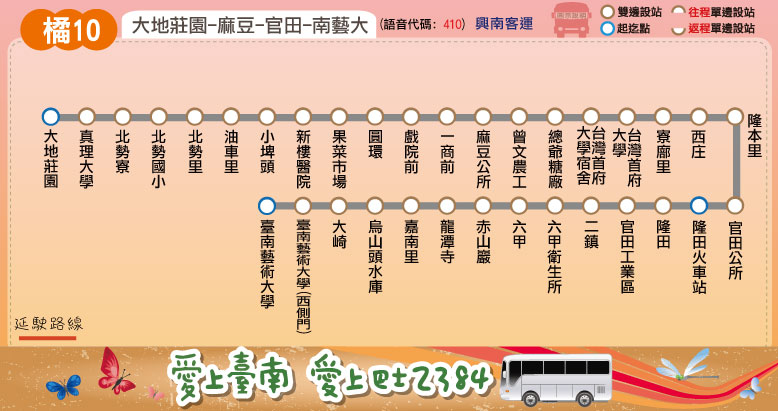
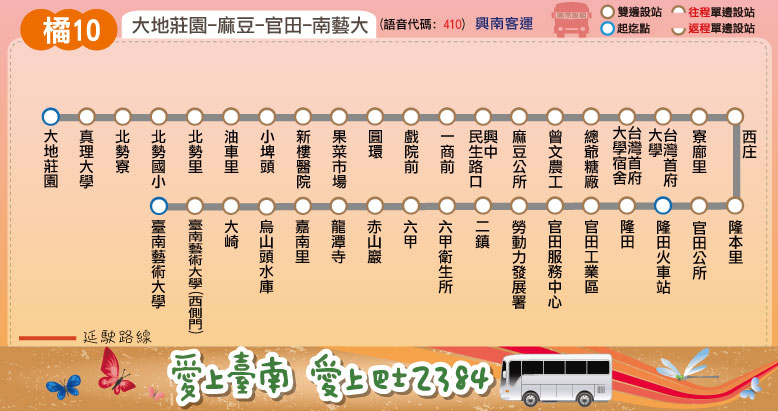
6/6 綠15,綠16,橘11,藍20,紅14改點

diff --git a/orange/orange_10.html b/orange/orange_10.html
@@ -2,7 +2,7 @@
 <html xmlns="http://www.w3.org/1999/xhtml">
 <head>
 <meta http-equiv="Content-Type" content="text/html; charset=utf-8" />
-<title>大台南公車 ─ 橘4 路線資訊</title>
+<title>大台南公車 ─ 橘10 路線資訊</title>
 <meta name="keywords" content="" />
 <meta name="description" content="" />
 <style type="text/css">
@@ -23,7 +23,7 @@ select.get_fare option.option6
 {background-color: #FFBB73;}
 </style>
 <script language="javascript" src="../route/msg.js"></script>
-<script language="javascript" src="../route/fare_and_time/orange_4.js"></script>
+<script language="javascript" src="../route/fare_and_time/orange_10.js"></script>
 <script language="javascript" src="../route/fare_and_time/show_fare_tool.js"></script>
 </head>
 <body>
@@ -51,10 +51,10 @@ select.get_fare option.option6
 	<div id="banner">&nbsp;</div>
 	<div id="route">
 		<div class="title">
-			<h2>大台南公車 ─ 橘4 路線圖</h2>
-			<span class="byline">Tainan Bus Orange 4, Route Map</span>
+			<h2>大台南公車 ─ 橘10 路線圖</h2>
+			<span class="byline">Tainan Bus Orange 10, Route Map</span>
 		</div>
-		<img src="../route/orange/o4.jpg">
+		<img src="../route/orange/o10.jpg">
 		<p></p>
 		<!--<iframe src="https://mapsengine.google.com/map/embed?mid=zT0XIOZRtlhg.kR8K7xUyvQtw" width="800" height="500"></iframe>-->
 	</div>
@@ -63,13 +63,13 @@ select.get_fare option.option6
 	<a name="info"></a>
 	<div id="routeinfo" class="container">
 		<div class="title">
-			<h2>大台南公車 ─ 橘4　路線資訊</h2>
-			<span class="byline">Tainan Bus Orange 4, Route Information</span> </div>
+			<h2>大台南公車 ─ 橘10　路線資訊</h2>
+			<span class="byline">Tainan Bus Orange 10, Route Information</span> </div>
 		<div class="content">
 			<table border="0">
 				<tr>
 					<td>起訖點</td>
-					<td>善化火車站 － 南藝大 － 烏山頭水庫</td>
+					<td>大地莊園 － 六甲 － 臺南藝術大學</td>
 				</tr>
 				<tr>
 					<td>營運公司</td>
@@ -77,7 +77,7 @@ select.get_fare option.option6
 				</tr>
 				<tr>
 					<td>首／末班車發車時刻</td>
-					<td>往 烏山頭水庫：07:50／19:30<br />往 善化火車站：08:20／20:00</td>
+					<td>往 臺南藝術大學：07:05／17:20<br />往 善化　火車站：07:50／19:00</td>
 				</tr>
 				<tr>
 					<td>班距</td>
@@ -89,7 +89,7 @@ select.get_fare option.option6
 				</tr>
 			</table>
 			<p>　</p>
-			<a href="http://2384.tainan.gov.tw:8080/AGPSRemoteQuery3/ajaxBus.jsp?pathId=1404&locale=zh_TW" class="button">公車動態資訊</a> </div>
+			<a href="http://2384.tainan.gov.tw:8080/AGPSRemoteQuery3/ajaxBus.jsp?pathId=1410&locale=zh_TW" class="button">公車動態資訊</a> </div>
 	</div>
 </div>
 <div id="wrapper3">
@@ -100,7 +100,7 @@ select.get_fare option.option6
 			<span class="byline">Ticket Fare</span> </div>
 		<div class="content">
 			<script language="javascript">
-				create_select_menu(orange_4_interval_stop, 6, 'orange_4');
+				create_select_menu(orange_10_interval_stop, 6, 'orange_10');
 			</script>
 			<br/>
 			<table>
@@ -120,7 +120,7 @@ select.get_fare option.option6
 			</table>
 			<p>　</p>
 			<script language="javascript">
-				print_fare_table(orange_4_interval_name, orange_4_fare, '#FFC991');
+				print_fare_table(orange_10_interval_name, orange_10_fare, '#FFC991');
 				document.write('<p>　</p>');
 				document.write(MeteredMSG + PromotionMSG);
 			</script>
@@ -135,11 +135,11 @@ select.get_fare option.option6
 		<span class="byline">Bus schedule</span> </div>
 	<div class="content">
 		<script language="javascript">
-			document.write('<h2><font color="orange">善化火車站-&gt;烏山頭水庫</font></h2>');
-			create_time_schedule(orange_4_main_stop_name, orange_4_main_stop_time_consume, orange_4_important_stop, orange_4_time_go, false);
+			document.write('<h2><font color="orange">大地莊園-&gt;臺南藝術大學</font></h2>');
+			create_time_schedule(orange_10_main_stop_name, orange_10_main_stop_time_consume, orange_10_important_stop, orange_10_time_go, false);
 			document.write('<p>　</p>');
-			document.write('<h2><font color="orange">烏山頭水庫-&gt;善化火車站</font></h2>');
-			create_time_schedule(orange_4_main_stop_name, orange_4_main_stop_time_consume, orange_4_important_stop, orange_4_time_return, true);
+			document.write('<h2><font color="orange">臺南藝術大學-&gt;大地莊園</font></h2>');
+			create_time_schedule(orange_10_main_stop_name, orange_10_main_stop_time_consume, orange_10_important_stop, orange_10_time_return, true);
 			document.write(TimeScheduleMSG);
 		</script>
 	</div>
@@ -148,36 +148,45 @@ select.get_fare option.option6
 	<a name="transfer"></a>
 	<div id="transfer" class="container">
 		<div class="title">
-			<h2>大台南公車－橘4 主要轉乘點資訊</h2>
-			<span class="byline">Tainan bus Orange 4, Transfer information</span>
+			<h2>大台南公車－橘10 主要轉乘點資訊</h2>
+			<span class="byline">Tainan bus Orange 10, Transfer information</span>
 		</div>
 		<div class="content">
 			<table>
 				<tr>
-					<th rowspan="3">善化火車站</th>
+					<th rowspan="2">果菜市場</th>
+					<td style="text-align: center"><img src="../route/transfer/orange_transfer_logo.png"></td>
+					<td id="orange"><a href="orange.html" target="_blank">橘幹線</a>、<a href="orange_10.html" target="_blank">橘10</a>、<a href="orange_11.html" target="_blank">橘11</a>、<a href="orange_12.html" target="_blank">橘12</a></td>
+				</tr>
+				<tr>
+					<td style="text-align: center"><img src="../route/transfer/yellow_transfer_logo.png"></td>
+					<td id="yellow"><a href="../yellow/yellow.html" target="_blank">黃幹線</a>、<a href="../yellow/yellow_20.html" target="_blank">黃20</a></td>
+				</tr>
+				<tr>
+					<th rowspan="2">隆田火車站</th>
 					<td style="text-align: center"><img src="../route/transfer/railway.png"></td>
-					<td>台鐵善化站</td>
+					<td>台鐵隆田站</td>
 				</tr>
 				<tr>
 					<td style="text-align: center"><img src="../route/transfer/orange_transfer_logo.png"></td>
-					<td id="orange">
-					<p>
-						<a href="orange.html" target="_blank">橘幹線</a>、<a href="orange_1.html" target="_blank">橘1</a>、<a href="orange_2.html" target="_blank">橘2</a>、<a href="orange_3.html" target="_blank">橘3</a>、<a href="orange_4.html" target="_blank">橘4</a>、
-					</p>
-					<a href="orange_5.html" target="_blank">橘5</a>、<a href="orange_12.html" target="_blank">橘12</a>
-					</td>
+					<td id="orange"><a href="orange_10.html" target="_blank">橘10</a></td>
 				</tr>
 				<tr>
-					<td style="text-align: center"><img src="../route/transfer/green_transfer_logo.png"></td>
-					<td id="green"><a href="../green/green_1.html" target="_blank">綠1</a>、<a href="../green/green_2.html" target="_blank">綠2</a>、<a href="../green/green_3.html" target="_blank">綠3</a>、<a href="../green/green_4.html" target="_blank">綠4</a>、<a href="../green/green_11.html" target="_blank">綠11</a></td>
+					<th rowspan="2">六甲</th>
+					<td style="text-align: center"><img src="../route/transfer/orange_transfer_logo.png"></td>
+					<td id="orange"><a href="orange_5.html" target="_blank">橘5</a>、<a href="orange_10.html" target="_blank">橘10</a></td>
 				</tr>
 				<tr>
-					<th>臺南藝術大學</th>
+					<td style="text-align: center"><img src="../route/transfer/yellow_transfer_logo.png"></td>
+					<td id="yellow"><a href="../yellow/yellow_1.html" target="_blank">黃1</a></td>
+				</tr>
+				<tr>
+					<th>烏山頭水庫</th>
 					<td style="text-align: center"><img src="../route/transfer/orange_transfer_logo.png"></td>
 					<td id="orange"><a href="orange_4.html" target="_blank">橘4</a>、<a href="orange_10.html" target="_blank">橘10</a></td>
 				</tr>
 				<tr>
-					<th>烏山頭水庫</th>
+					<th>臺南藝術大學</th>
 					<td style="text-align: center"><img src="../route/transfer/orange_transfer_logo.png"></td>
 					<td id="orange"><a href="orange_4.html" target="_blank">橘4</a>、<a href="orange_10.html" target="_blank">橘10</a></td>
 				</tr>

diff --git a/route/fare_and_time/orange_10.js b/route/fare_and_time/orange_10.js
@@ -1,0 +1,36 @@
+orange_10_interval_name = ["真理<br />大學","北勢寮","麻豆","寮廍里","西庄","隆田","二鎮","六甲","嘉南里","烏山頭<br />水庫","臺南藝<br />術大學"];
+orange_10_interval_stop = [
+["大地莊園","真理大學"], // 真理大學
+["北勢寮","北勢國小","北勢里"], // 北勢寮
+["油車里","小埤頭","新樓醫院","果菜市場","圓環","戲院前","一商前","興中民生路口","麻豆公所","曾文農工","總爺糖廠","臺灣首府大學宿舍","臺灣首府大學"], // 麻豆
+["寮廍里"], // 寮廍里
+["西庄"], // 西庄
+["隆本里","官田公所","隆田火車站","隆田"], // 隆田
+["官田工業區","官田服務中心","勞動力發展署","二鎮"], // 二鎮
+["六甲衛生所","六甲"], // 六甲
+["赤山巖","龍潭寺","嘉南里"], // 嘉南里
+["烏山頭水庫"], // 烏山頭水庫
+["大崎","臺南藝術大學(西側門)","臺南藝術大學"] // 臺南藝術大學
+];
+orange_10_stop_time_consume = [0,5,9,10,11,12,15,18,20,21,22,24,25,27,28,30,32,33,35,38,40,43,45,50,52,53,54,55,58,60,62,64,65,67,71,73,75];
+orange_10_fare = [
+[26],
+[26,26],
+[28,26,26],
+[47,42,26,26],
+[52,46,26,26,26],
+[61,56,33,26,26,26],
+[75,70,48,29,26,26,26],
+[83,78,55,36,32,26,26,26],
+[91,85,63,44,39,30,26,26,26],
+[93,88,65,46,41,32,26,26,26,26],
+[106,101,79,60,55,45,31,26,26,26,26]
+];
+// format = [time at the start stop] or
+// [time, other] or
+// [time, start_stop, end_stop, other]
+orange_10_main_stop_name = ["大地<br />莊園","真理<br />大學","果菜<br />市場","總爺<br />糖廠","臺灣<br />首府大學","隆田<br />火車站","官田<br />工業區","六甲","烏山頭<br />水庫","臺南<br />藝術大學"];
+orange_10_main_stop_time_consume = [0, 5, 20, 30, 33, 45, 52, 60, 67, 75];
+orange_10_important_stop = [0, 2, 5, 7, 9]; // 大地莊園, 果菜市場, 隆田火車站, 六甲, 臺南藝術大學
+orange_10_time_go = [["7:05",0,5],["8:00"],["9:20"],["12:50"],["16:45",0,5],["17:20"]];
+orange_10_time_return = [["7:50",5,0],["9:25"],["10:35"],["14:25"],["17:30",5,0],["19:00"]];

diff --git a/route/fare_and_time/green_16.js b/route/fare_and_time/green_16.js
@@ -17,12 +17,12 @@ green_16_fare = [
 // format = [time at the start stop] or
 // [time, other] or
 // [time, start_stop, end_stop, other]
-green_16_main_stop_name = ["新化","統一花園","加州新城","山西宮","關廟","歸仁公所"];
-green_16_main_stop_time_consume = [0, 5, 4, 19, 20, 25];
-green_16_important_stop = [0, 4, 5]; // 新化, 關廟, 歸仁公所
-green_16_time_go = [["5:50",[1]],["7:00",0,4,[[2,5]]],["8:20",0,4,[1]],["10:00",0,4,[1]],["11:00",0,4,[1]],["12:00",0,4,[[2,5]]],
-["13:00",0,4,[1]],["13:50",0,4,[1]],["14:00",0,4,[1]],["15:00",0,4,[1]],["16:00",0,4,[1]],["17:10",0,4,[[2,5]]],["18:40",0,4,[1]],
+green_16_main_stop_name = ["新化","統一花園","加州新城","山西宮","關廟","歸仁公所","高鐵<br />臺南站"];
+green_16_main_stop_time_consume = [0, 5, 4, 19, 20, 25, 45];
+green_16_important_stop = [0, 4, 6]; // 新化, 關廟, 高鐵臺南站
+green_16_time_go = [["5:50",0,5,[1]],["7:00",0,4,[[2,5]]],["8:20",[1]],["10:00",0,4,[1]],["11:00",[1]],["12:00",0,4,[[2,5]]],
+["13:00",0,4,[1]],["13:50",0,4,[1]],["14:00",[1]],["15:00",0,4,[1]],["16:00",0,4,[1]],["17:10",0,4,[[2,5]]],["18:40",[1]],
 ["19:10",0,4,[1]],["20:00",0,4,[1]],["21:00",0,4,[1]]];
-green_16_time_return = [["6:15",[1]],["7:25",4,0,[[1,5]]],["8:40",4,0,[1]],["9:30",4,0,[1]],["10:20",4,0,[1]],["11:20",4,0,[1]],
-["12:25",4,0,[[1,5]]],["13:20",4,0,[1]],["14:20",4,0,[1]],["15:20",4,0,[1]],["16:20",4,0,[1]],["17:35",4,0,[[1,5]]],
-["19:00",4,0,[1]],["19:30",4,0,[1]],["20:20",4,0,[1]],["21:20",4,0,[1]]];
+green_16_time_return = [["6:15",5,0,[1]],["7:25",4,0,[[1,5]]],["9:00",[1]],["9:30",4,0,[1]],["10:20",4,0,[1]],["11:40",[1]],
+["12:25",4,0,[[1,5]]],["13:20",4,0,[1]],["14:40",[1]],["15:20",4,0,[1]],["16:20",4,0,[1]],["17:35",4,0,[[1,5]]],
+["19:20",[1]],["19:30",4,0,[1]],["20:20",4,0,[1]],["21:20",4,0,[1]]];

diff --git a/route/fare_and_time/blue_20.js b/route/fare_and_time/blue_20.js
@@ -28,5 +28,5 @@ blue_20_fare = [
 blue_20_main_stop_name = ["佳里","七股<br />公所","龍山里","中寮子","鹽山","西寮","青鯤鯓","將軍<br />漁港","馬沙溝<br />遊憩區"];
 blue_20_main_stop_time_consume = [0, 9, 15, 17, 20, 26, 29, 45, 50];
 blue_20_important_stop = [0, 1, 4, 6, 8]; // 佳里, 七股公所, 鹽山, 青鯤鯓, 馬沙溝遊憩區
-blue_20_time_go = [["5:25"],["7:10"],["8:40"],["10:15"],["11:00"],["12:30"],["15:40"],["17:20"],["18:00"],["19:20"],["20:10"]];
-blue_20_time_return = [["6:15"],["8:10"],["9:40"],["11:10"],["12:00"],["13:30"],["16:40"],["18:10"],["18:50"],["20:20"],["21:00"]];
+blue_20_time_go = [["5:25"],["7:10"],["8:40"],["09:40",[2,'區']],["10:15"],["11:00"],["12:00",[2,'區']],["12:30"],["14:10",[2,'區']],["15:40"],["16:20",[2,'區']],["17:20"],["18:00"],["18:30",[2,'區']],["19:20"],["20:10"]];
+blue_20_time_return = [["6:15"],["8:10"],["9:40"],["10:35",[2,'區']],["11:10"],["12:00"],["12:55",[2,'區']],["13:30"],["15:05",[2,'區']],["16:40"],["17:15",[2,'區']],["18:10"],["18:50"],["19:25",[2,'區']],["20:20"],["21:00"]];

diff --git a/route/fare_and_time/red_14.js b/route/fare_and_time/red_14.js
@@ -18,7 +18,5 @@ red_14_fare = [
 red_14_main_stop_name = ["關廟","歸仁公所","歸南<br />派出所","高鐵<br />臺南站"];
 red_14_main_stop_time_consume = [0, 5, 10, 20];
 red_14_important_stop = [0, 3]; // 關廟, 高鐵臺南站
-red_14_time_go = [["7:10"],["8:35"],["9:35"],["10:00"],["10:35"],["11:35"],["12:00"],["12:35"],["13:35"],["14:00"],
-["14:35"],["15:35"],["16:00"],["16:35"],["17:35"],["18:35"],["19:35"],["20:35"]];
-red_14_time_return = [["6:50"],["8:15"],["9:15"],["9:40"],["10:15"],["11:15"],["11:40"],["12:15"],["13:15"],["13:40"],
-["14:15"],["15:15"],["15:40"],["16:15"],["17:15"],["18:15"],["19:15"],["20:15"]];
+red_14_time_go = [["6:50"],["9:15"],["9:40"],["10:15"],["11:40"],["12:15"],["13:15"],["13:40"],["15:15"],["15:40"],["16:15"],["17:15"],["18:15"],["20:15"]];
+red_14_time_return = [["7:10"],["9:35"],["10:00"],["10:35"],["12:00"],["12:35"],["13:35"],["14:00"],["15:35"],["16:00"],["16:35"],["17:35"],["18:35"],["20:35"]];

diff --git a/orange/orange_3.html b/orange/orange_3.html
@@ -135,10 +135,10 @@ select.get_fare option.option6
 		<span class="byline">Bus schedule</span> </div>
 	<div class="content">
 		<script language="javascript">
-			document.write('<h2><font color="orange">善化火車站-&gt;臺南公園(公園路)</font></h2>');
+			document.write('<h2><font color="orange">善化火車站-&gt;安南醫院/臺南公園(公園路)</font></h2>');
 			create_time_schedule(orange_3_main_stop_name, orange_3_main_stop_time_consume, orange_3_important_stop, orange_3_time_go, false);
 			document.write('<p>　</p>');
-			document.write('<h2><font color="orange">臺南公園(公園路)-&gt;善化火車站</font></h2>');
+			document.write('<h2><font color="orange">安南醫院/臺南公園(公園路)-&gt;善化火車站</font></h2>');
 			create_time_schedule(orange_3_main_stop_name, orange_3_main_stop_time_consume, orange_3_important_stop, orange_3_time_return, true);
 			document.write(TimeScheduleMSG);
 		</script>

diff --git a/route/fare_and_time/green_15.js b/route/fare_and_time/green_15.js
@@ -14,5 +14,5 @@ green_15_fare = [
 green_15_main_stop_name = ["新化","新化國中","佛顓寺","知義營房","新和教會","五甲勢"];
 green_15_main_stop_time_consume = [0, 1, 5, 10, 13, 15];
 green_15_important_stop = [0, 5]; // 新化, 五甲勢
-green_15_time_go = [["7:50"],["9:30"],["10:50"]];
-green_15_time_return = [["8:05"],["9:45"],["11:05"]];
+green_15_time_go = [["7:50"],["9:40"],["10:50"]];
+green_15_time_return = [["8:05"],["9:55"],["11:05"]];

diff --git a/orange/index.html b/orange/index.html
@@ -84,11 +84,11 @@ td{
 	</tr>
 	<tr>
 		<td><a href="orange_5.html" class="myButton">橘5</a></td>
-		<td>善化火車站 ─ 六甲</td>
+		<td>善化火車站 ─ 官田 ─ 六甲</td>
 	</tr>
 	<tr>
 		<td><a href="orange_10.html" class="myButton">橘10</a></td>
-		<td>真理大學 ─ 麻豆 ─ 官田 ─ 南藝大</td>
+		<td>真理大學 ─ 隆田火車站 ─ 南藝大</td>
 	</tr>
 	<tr>
 		<td><a href="orange_11.html" class="myButton">橘11</a></td>

diff --git a/blue/blue_20.html b/blue/blue_20.html
@@ -144,6 +144,7 @@ select.get_fare option.option6
 			create_time_schedule(blue_20_main_stop_name, blue_20_main_stop_time_consume, blue_20_important_stop, blue_20_time_return, true);
 			document.write(TimeScheduleMSG);
 		</script>
+		<h3><font color="red">「區」</font>表示於「2014一見雙雕藝術季」活動期間(103.6.7-103.8.31)加開班次</h3>
 	</div>
 </div>
 <div id="wrapper4">
